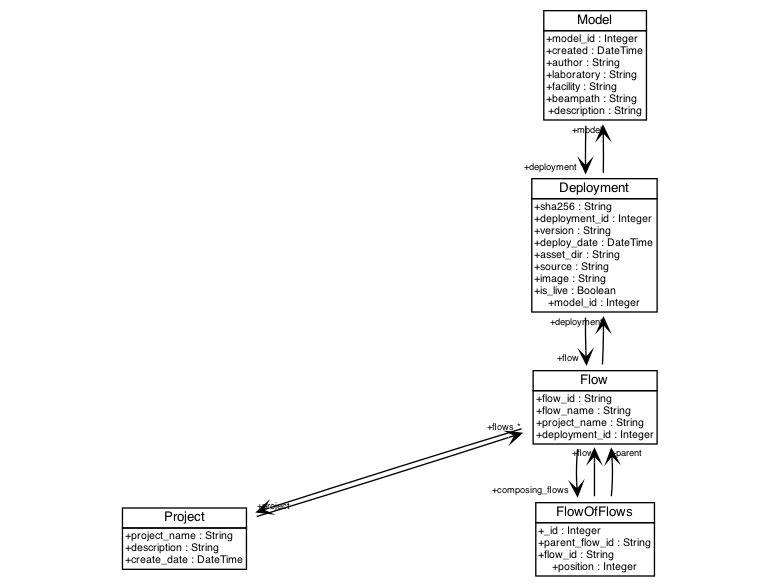
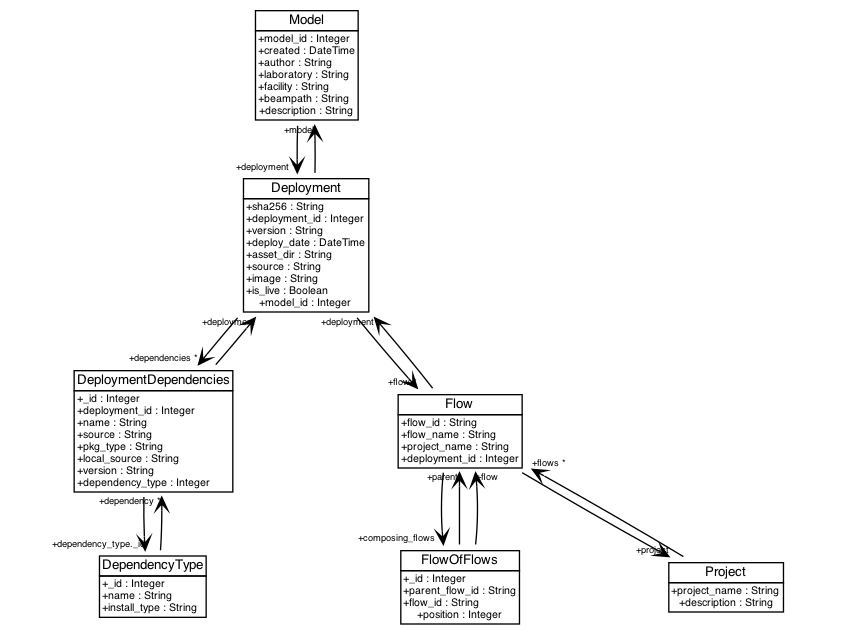
Check in docs

Changed region(s): [[0.0615, 0.0, 0.9231, 1.0]]

diff --git a/docs/developer/services/models.md b/docs/developer/services/models.md
@@ -3,10 +3,120 @@
 The model database stores references to registered flows, model metadata, ...
 
 Sqlalchemy comments...
-Schema is defined using the sqlalchemy API in
+Schema is defined using the sqlalchemy API in `lume_services/services/models/db/schema.py`.:
+
+![schema](../../files/model_db_schema.png)
 
 
-Sqlalchemy can be configured to use a number of different [dialects](https://docs.sqlalchemy.org/en/14/dialects/). The database implementation in `lume_services/services/models/db/db.py` defaults to using a `mysql` connection, as indicated with the `dialect_str="mysql+pymysql"` attribute on the ModelDBConfig object. Additional dialects can be accomodated by assigning this dialect string.
+![uml](../../files/model_db_uml.png)
+
+
+## Tables
+
+
+
+
+
+### Model
+
+The model table tracks high-level metadata about a model, including
+
+A model's deployments can be accessed using the Model.deployments attribute, which will return a list of deployments associated with the model. This relationship is established in the sqlalchemy [schema](https://github.com/jacquelinegarrahan/lume-services/blob/main/lume_services/services/models/db/schema.py):
+
+```python
+from sqlalchemy.orm import declarative_base, relationship
+from sqlalchemy.schema import Column, ForeignKey
+Base = declarative_base()
+...
+
+class Model(Base)
+    ...
+
+    deployments = relationship("Deployment", back_populates="model")
+
+
+class Deployment(Base):
+    ...
+    model_id = Column(
+        "model_id", ForeignKey("model.model_id"), nullable=False, onupdate="cascade"
+    )
+
+    # one to many
+    model = relationship("Model", back_populates="deployments", lazy="joined")
+
+```
+
+### Deployment
+The deployment table tracks versioned deployments of a model
+
+
+The model associated with the deployment can be accessed using the relationship established above:
+
+```python
+
+my_model = my_deployment.model
+
+```
+
+
+### Project
+
+Project has a one-many relationship with flows
+```python
+from sqlalchemy.orm import declarative_base, relationship
+from sqlalchemy.schema import Column, ForeignKey
+Base = declarative_base()
+
+class Project(Base):
+    ...
+
+    # relationships
+    flows = relationship("Flow", back_populates="project")
+
+class Flow(Base):
+    __tablename__ = "flow"
+
+    project_name = Column(
+        "project_name",
+        ForeignKey("project.project_name"),
+        nullable=False,
+        onupdate="cascade",
+    )
+
+    project = relationship("Project", back_populates="flows", lazy="joined")
+
+```
+
+
+
+### Flow
+The Flow table synchronizes Prefect orchestration tools with registered models
+Flows are registered with a project
+
+```python
+from sqlalchemy.orm import declarative_base, relationship
+from sqlalchemy.schema import Column, ForeignKey
+Base = declarative_base()
+
+class Project(Base):
+    ...
+
+    # relationships
+    flows = relationship("Flow", back_populates="project")
+
+
+
+
+```
+
+
+
+
+### FlowOfFlows
+
+### DependencyType
+
+### DeploymentDependencies
 
 
 ## Updating the model schema
@@ -20,11 +130,51 @@ python scripts/update_docker_compose_schema.py build-docker-compose-schema
 This will automatically render the schema file in `lume_services/docker/files/model-db-init.sql`. Now, you can add this file updated file to the git repository.
 
 
+## Sqlalchemy notes
+
+Sqlalchemy can be configured to use a number of different [dialects](https://docs.sqlalchemy.org/en/14/dialects/). The database implementation in `lume_services/services/models/db/db.py` defaults to using a `mysql` connection, as indicated with the `dialect_str="mysql+pymysql"` attribute on the ModelDBConfig object. Additional dialects can be accomodated by assigning this dialect string.
 
 
-## Conda channel
+## Environment resolution
 
-The conda channel must be updated to provide the packages ahead of time
+LUME-services is packaged with a [mamba-based environment resolver](https://mamba.readthedocs.io/en/latest/index.html) that can be used to manage dependencies for models deployed into isolated environments. The resover downloads all resources to local directories.
 
+```mermaid
+sequenceDiagram
+    participant User
+    participant Solver as EnvironmentSolver
+    participant LocalCondaIndex as local conda index
+    participant LocalPipRepo as local pip repo
+    participant ProjectSource as project source
+    participant CondaForge as conda-forge
+    participant PipSource as pip source
+    participant ModelDB as Model Database
+    User ->> Solver: Install package X
+    activate Solver
+    Solver ->> ProjectSource: Request source
+    activate ProjectSource
+    ProjectSource ->> Solver: Provide source data
+    deactivate ProjectSource
+    Solver ->> Solver: Parse packaged environment.yml
+    Solver ->> Solver: Solve environment
+    Solver ->> CondaForge: Request conda dependencies
+    activate CondaForge
+    CondaForge ->> Solver: Provide conda dependencies
+    deactivate CondaForge
+    Solver -->> LocalCondaIndex: Store dependency files
+    Solver -->> LocalCondaIndex: Assemble index
+    Solver ->> PipSource: Request pip dependencies
+    activate PipSource
+    PipSource ->> Solver: Provide pip dependencies
+    deactivate PipSource
+    Solver -->> LocalPipRepo: Store dependency files
+    Solver -->> ModelDB: Store dependencies
+    deactivate Solver
 
-https://docs.conda.io/projects/conda/en/latest/user-guide/tasks/manage-channels.html
+```
+
+### Pip installations
+Pip installations should be avoided as much as possible...
+
+TODO:
+- Add requirements table to model database

diff --git a/docs/files/env_vars.md b/docs/files/env_vars.md
@@ -4,28 +4,38 @@
 |LUME_BACKEND|string|local  |
 
 
+# Filesystem Configuration
+|                Name                | Type |     Default     |
+|------------------------------------|------|-----------------|
+|LUME_MOUNTED_FILESYSTEM__IDENTIFIER |string|mounted          |
+|LUME_MOUNTED_FILESYSTEM__MOUNT_PATH |string|                 |
+|LUME_MOUNTED_FILESYSTEM__MOUNT_ALIAS|string|                 |
+|LUME_MOUNTED_FILESYSTEM__MOUNT_TYPE |string|DirectoryOrCreate|
+
+
 # Model Database
-|                  Name                  | Type  |Default|
-|----------------------------------------|-------|-------|
-|LUME_MODEL_DB__HOST                     |string |       |
-|LUME_MODEL_DB__PORT                     |integer|       |
-|LUME_MODEL_DB__USER                     |string |       |
-|LUME_MODEL_DB__PASSWORD                 |string |       |
-|LUME_MODEL_DB__DATABASE                 |string |       |
-|LUME_MODEL_DB__CONNECTION__POOL_SIZE    |integer|       |
-|LUME_MODEL_DB__CONNECTION__POOL_PRE_PING|boolean|True   |
+|                  Name                  | Type  |   Default   |
+|----------------------------------------|-------|-------------|
+|LUME_MODEL_DB__HOST                     |string |             |
+|LUME_MODEL_DB__PORT                     |integer|             |
+|LUME_MODEL_DB__USER                     |string |             |
+|LUME_MODEL_DB__PASSWORD                 |string |             |
+|LUME_MODEL_DB__DATABASE                 |string |             |
+|LUME_MODEL_DB__CONNECTION__POOL_SIZE    |integer|             |
+|LUME_MODEL_DB__CONNECTION__POOL_PRE_PING|boolean|True         |
+|LUME_MODEL_DB__DIALECT_STR              |string |mysql+pymysql|
 
 
 # Results Database
-|                  Name                  | Type  |Default|
-|----------------------------------------|-------|-------|
-|LUME_MODEL_DB__HOST                     |string |       |
-|LUME_MODEL_DB__PORT                     |integer|       |
-|LUME_MODEL_DB__USER                     |string |       |
-|LUME_MODEL_DB__PASSWORD                 |string |       |
-|LUME_MODEL_DB__DATABASE                 |string |       |
-|LUME_MODEL_DB__CONNECTION__POOL_SIZE    |integer|       |
-|LUME_MODEL_DB__CONNECTION__POOL_PRE_PING|boolean|True   |
+|             Name             | Type  |Default|
+|------------------------------|-------|-------|
+|LUME_RESULTS_DB__DATABASE     |string |       |
+|LUME_RESULTS_DB__USERNAME     |string |       |
+|LUME_RESULTS_DB__HOST         |string |       |
+|LUME_RESULTS_DB__PASSWORD     |string |       |
+|LUME_RESULTS_DB__PORT         |integer|       |
+|LUME_RESULTS_DB__AUTHMECHANISM|string |DEFAULT|
+|LUME_RESULTS_DB__OPTIONS      |object |{}     |
 
 
 # Scheduling Service

diff --git a/docs/developer/configuration.md b/docs/developer/configuration.md
@@ -1,3 +1,65 @@
+# Configuration
+
+LUME-services is entirely configurable by environment variables. The environment variables are collected from a [pydantic BaseSettings](https://pydantic-docs.helpmanual.io/usage/settings/) object, [`LUMEServicesSettings`](../api/config.md#LUMEServicesSettings), in `lume_services.config`.
+
+
+This object gathers all configurations used by LUME-services and exposes them through a single interface.
+
+
+
+
+Command line tools call the configuration here:
+
+So on any attempts to run a command line tool, the LUMEServicesSettings are inferred from the environment variables.
+
+
+In `LUMEServicesSettings.Config` we set the options for constructing the environment variable:
+```python
+class LUMEServicesSettings(BaseSettings):
+    """Settings describing configuration for default LUME-services provider objects."""
+
+    model_db: Optional[ModelDBConfig]
+    results_db: Optional[MongodbResultsDBConfig]
+    prefect: Optional[PrefectConfig]
+    mounted_filesystem: Optional[MountedFilesystem]
+    backend: str = "local"
+    # something wrong with pydantic literal parsing?
+    # Literal["kubernetes", "local", "docker"] = "local"
+
+    class Config:
+        # env_file = '.env'
+        # env_file_encoding = 'utf-8'
+        validate_assignment = True
+        env_prefix = "LUME_"
+        env_nested_delimiter = "__"
+
+```
+This means that out environment variables will be prefixed with "LUME_" and sub-configurations will be prefixed by "__", following the first level configuration options. These variables are not case sentsitive. So, to set the host_port of the model database configuration, we can use the environment variable `LUME_MODEL_DB__PORT` and to set the host port for the prefect server we use `LUME_PREFECT__SERVER__HOST_PORT`.
+
+
+## Injection
+
+container provides runtime context
+
+
+Once configured, the injection container will provide the configured services to LUME-services objects. For example, the signature for _ looks like _:
+
+...
+
+This means that _ can be run using manual instantiation, or by using injection by precipating the code with:
+
+```
+from lume_services.config import configure
+
+configure()
+...
+
+```
+
+Applications can take advantage of this feature by... WIRING...
+
+
+
 # Pydantic
 
 # Pydantic docker secrets:

diff --git a/docs/developer/setup.md b/docs/developer/setup.md
@@ -1,11 +1,23 @@
+# Setup developer tools
 
-
-The repository is packaged using pre-commit hooks for code format consistency.
-
+First, create the development environment with conda.
+```
+conda env create -f dev-environment.yml
+conda activate lume-services-dev
+```
+The repository is packaged using pre-commit hooks for code format consistency. In order to install, run:
 ```
 pre-commit install
 ```
 
-## requirements
 
-`pymdown-extensions>9.4` and `Pygments>=2.12` are pinned in `docs-requirements.txt` because of a compatability bug between `pymdown-extensions` and earlier versions of Pygments (issue [here](https://github.com/squidfunk/mkdocs-material/issues/3840)).
+## Requirements management
+
+Requirements are tracked in a number of places and must be kept in sync.
+In the repository root we have:
+ - `requirements.txt`: Run requirements for the package.
+ - `dev-requirements.txt`: Requirements for development. Includes packages for testing and formatting hooks.
+ - `docs-requirements.txt`: Requirements for building package documentation.
+ - `dev-environment.yml`: Developer environment, which should be kept in sync with the above.
+
+There is an additional `environment.yml` packaged in `lume_services.docker.files` which must be consistent with requirements defined in the repository root. This file is used for composing the Docker image inside which workflows will run in a distributed configuration. This file is also used for [isolated environment resolution](docker_image.md#isolation).

diff --git a/docs/developer/docker_image.md b/docs/developer/docker_image.md
@@ -6,9 +6,10 @@ When a job is submitted to the scheduling service, the agent creates a container
 
 The image allows for environment specification via two environment variables, `EXTRA_CONDA_PACKAGES` and `EXTRA_PIP_PACKAGES`, provided as comma-separated strings (see [environment.sh](https://github.com/slaclab/lume-services/blob/main/entrypoint.sh)).
 
-## Environment resolution for isolated jobs
 
-Because jobs may be submitted for execution in isolated environments, `LUME-services` provides an additional environment resolution tool that allows users to prepare a channel with resolved dependencies. Channels can be configured as either a server-based resource or as a mounted filesystem.
+## Isolation
+
+Because jobs may be submitted for execution in isolated environments without access to the standard conda channels, `LUME-services` provides an additional environment resolution tool that allows users to prepare a mounted channel with resolved dependencies. Channels can be configured as either a server-based resource or as a mounted filesystem.
 
 
 * Insert diagram of requirement flow here

diff --git a/docs/developer/todo.md b/docs/developer/todo.md
@@ -23,8 +23,8 @@
 TODO:
     - [ ] CLI tool
     - [ ] Instructions for templating tool and configuration
-    - [ ] Templated README
-    - [ ] Handling of input/output variables at outset
+    - [x] Templated README
+    - [x] Handling of input/output variables at outset
     - [ ] Drop required defaults for lume-model variables
     - [ ] Check functionality of all
     - [ ] Docs
@@ -60,9 +60,9 @@ TODO:
 
 ## Scheduler
 - TODO:
-    - [ ] Test flow of flows composition
+    - [x] Test flow of flows composition
     - [ ] Add mapped parameters to database?
-    - [ ] Add requirements table
+    - [x] Add requirements table
     - [ ] Kubernetes backend tests
     - [ ] How do we handle submission of environment variables to the scheduler? For example, how do we communicate the aliasing of services in a docker-compose app?
     - [ ] Docs

diff --git a/docs/developer/testing.md b/docs/developer/testing.md
@@ -8,7 +8,9 @@ The `pytest.ini` file at the root of the repository describes the port-forwardin
 
 ### Tests
 
-
+```
+pytest . --log_cli_level=INFO
+```
 
 Create subprocess for agent
 
